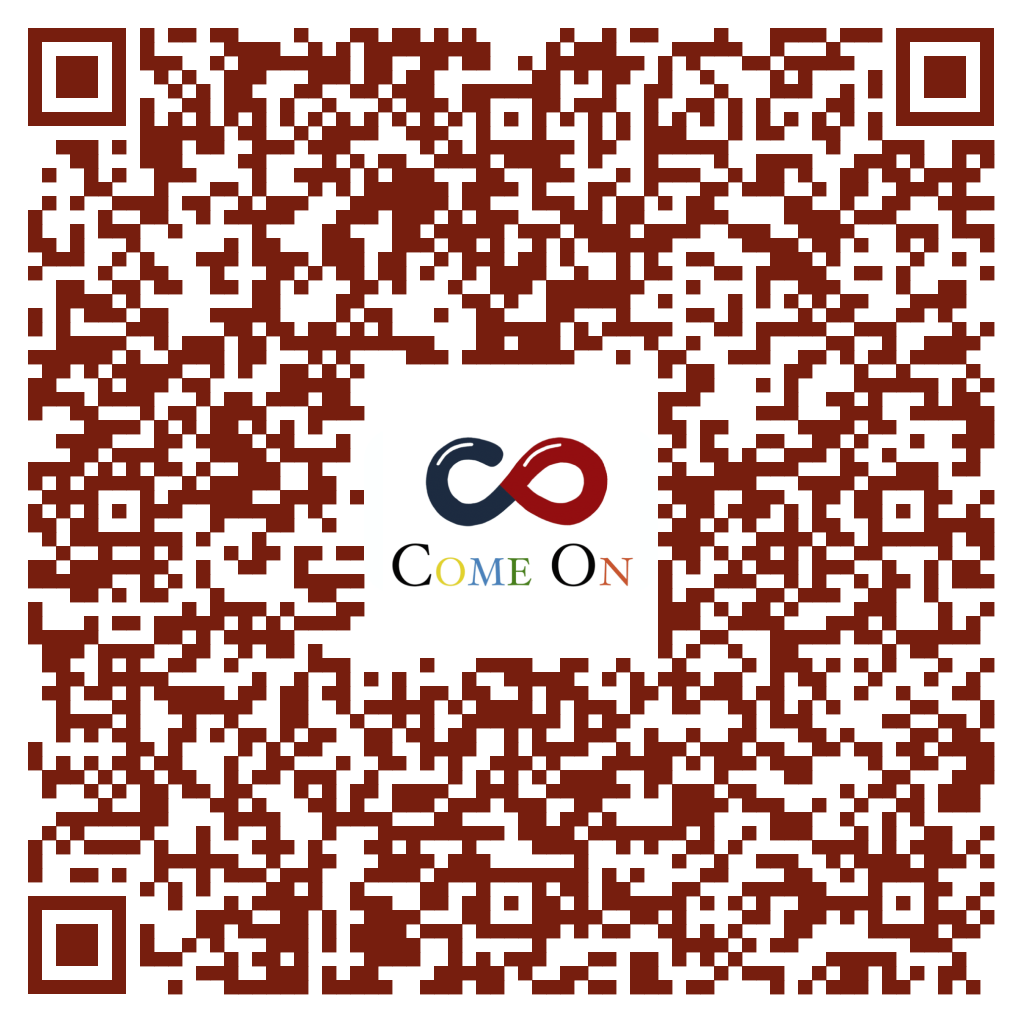
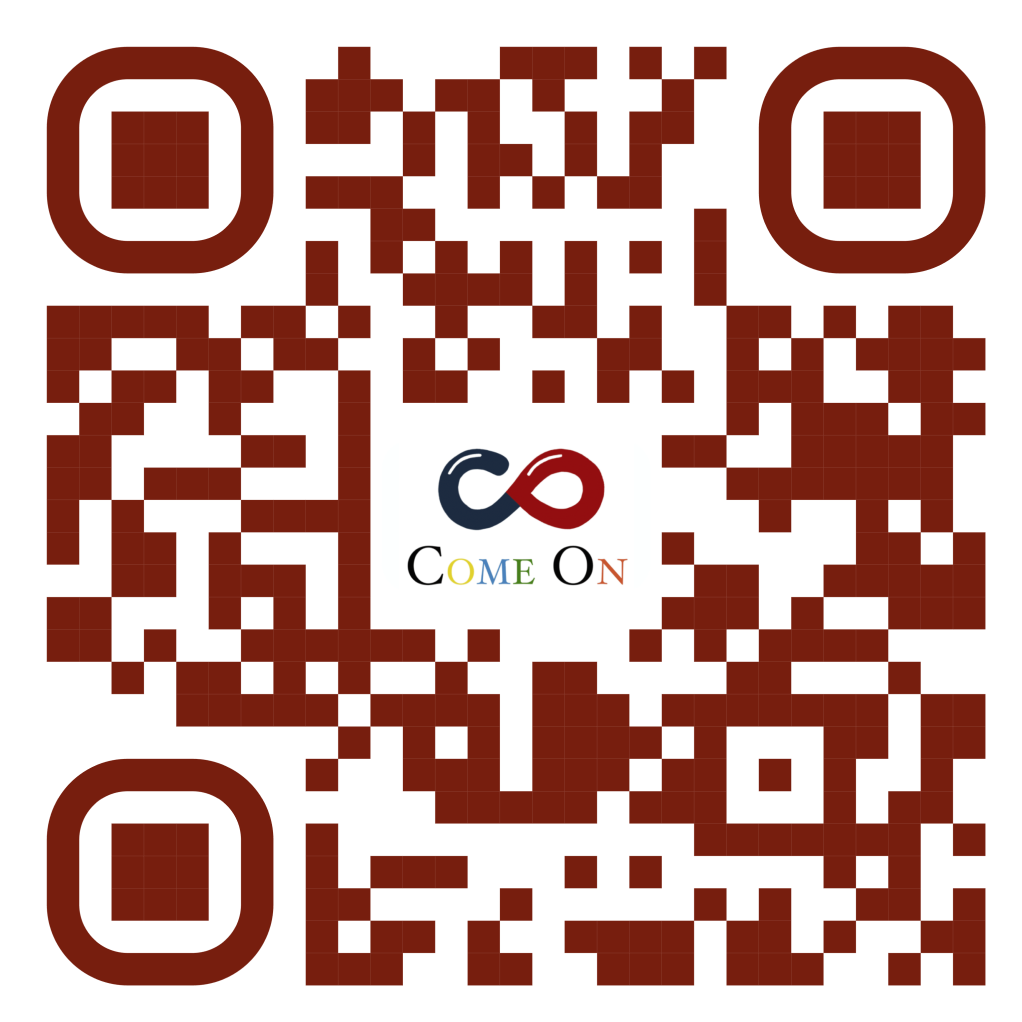
chage pdf redirect

diff --git a/components/Landing.vue b/components/Landing.vue
@@ -3,15 +3,11 @@
     <Carousel :wrap-around="true" :autoplay="3000">
       <Slide index="0">
         <div>
-          <h1
-            class="text-left text-[64px] mobile:text-[20px] text-primary-red mb-4"
-          >
+          <h1 class="text-left text-[64px] mobile:text-[20px] text-primary-red mb-4">
             COME ON INTERNATIONAL,CO.,LTD. <br />
             บริษัท คัมออน อินเตอร์เนชั่นแนล จำกัด
           </h1>
-          <div
-            class="flex gap-12 mobile:gap-10 justify-center mobile:items-center"
-          >
+          <div class="flex gap-12 mobile:gap-10 justify-center mobile:items-center">
             <div class="flex-1 flex flex-col gap-12">
               <h1 class="text-left text-[40px] mobile:text-[17px] text-black">
                 จำหน่ายสินค้างานรถยนต์ทุกชนิด <br />
@@ -57,9 +53,7 @@
             class="mobile:hidden"
           />
           <div class="flex flex-col item-center gap-4">
-            <h1
-              class="text-primary-red text-[96px] mobile:text-[40px] font-bold"
-            >
+            <h1 class="text-primary-red text-[96px] mobile:text-[40px] font-bold">
               CONTACT US
             </h1>
             <div
@@ -87,9 +81,7 @@
                   alt=""
                   class="w-[80px] mobile:w-[40px]"
                 />
-                <span class="text-[48px] mobile:text-[20px]"
-                  >sami.comeon@gmail.com</span
-                >
+                <span class="text-[48px] mobile:text-[20px]">sami.comeon@gmail.com</span>
               </div>
             </div>
           </div>
@@ -104,18 +96,16 @@
             class="mobile:hidden"
           />
           <div class="flex flex-col gap-8 mobile:gap-4">
-            <h1
-              class="text-primary-red text-[96px] mobile:text-[40px] font-bold"
-            >
+            <h1 class="text-primary-red text-[96px] mobile:text-[40px] font-bold">
               OUR CATALOGUE
             </h1>
             <div class="flex flex-col items-center gap-8 mobile:gap-4">
-              <button
+              <!-- <button
                 @click="downloadWithAxios()"
                 class="text-secondary bg-primary-red px-[2rem] text-[35px] mobile:text-[20px] rounded-md shadow-lg w-fit"
               >
                 Download
-              </button>
+              </button> -->
               <button
                 @click="openPDF"
                 class="text-secondary bg-primary-red px-[2rem] text-[35px] mobile:text-[20px] rounded-md shadow-lg w-fit"
@@ -136,45 +126,49 @@
 </template>
 
 <script setup>
-import 'vue3-carousel/dist/carousel.css';
-import { Carousel, Slide, Pagination, Navigation } from 'vue3-carousel';
-import Axios from 'axios';
+import "vue3-carousel/dist/carousel.css";
+import { Carousel, Slide, Pagination, Navigation } from "vue3-carousel";
+import Axios from "axios";
+import url from "@/constant/pdfLink";
 
-const emit = defineEmits(['downloadClick','downloadSuccess'])
-import pdf from '@/src/Come-On_International.pdf';
+const emit = defineEmits(["downloadClick", "downloadSuccess"]);
+// import pdf from '@/src/Come-On_International.pdf';
+// const pdf = 'https://drive.google.com/file/d/19RcC2PyQYI8WSX3A6KbKSW61rlKPNDEj/view?usp=sharing'
 // const pdf = 'https://firebasestorage.googleapis.com/v0/b/come-on-international.appspot.com/o/Come-On%20International.pdf?alt=media&token=2a4c4566-930b-41f9-953b-cb1f23a25ced'
+const pdf = url;
 const screenWidth = window.innerWidth;
-const disableCarouselAddon = computed(() => screenWidth < '640px');
+const disableCarouselAddon = computed(() => screenWidth < "640px");
 const URL = await downloadURL();
 
 const openPDF = () => {
-  const downloadTag = document.getElementById('open');
+  const downloadTag = document.getElementById("open");
   downloadTag.click();
 };
 
 const forceFileDownload = (response, title) => {
-  console.log(title);
   const url = window.URL.createObjectURL(new Blob([response.data]));
-  const link = document.createElement('a');
+  const link = document.createElement("a");
   link.href = url;
-  link.setAttribute('download', title);
+  link.setAttribute("download", title);
   document.body.appendChild(link);
   link.click();
 };
 const downloadWithAxios = () => {
-  emit('downloadClick')
+  emit("downloadClick");
   Axios({
-    method: 'GET',
+    method: "GET",
     url: URL,
-    responseType: 'arraybuffer',
+    responseType: "arraybuffer",
   })
     .then((response) => {
-      forceFileDownload(response, 'ComeOn-International.pdf');
-      if(response.status == 200){
-       emit('downloadSuccess')
+      forceFileDownload(response, "ComeOn-International.pdf");
+      if (response.status == 200) {
+        emit("downloadSuccess");
       }
     })
-    .catch(() => {emit('downloadSuccess')});
+    .catch(() => {
+      emit("downloadSuccess");
+    });
 };
 </script>
 

diff --git a/components/Popup/CataloguePopup.vue b/components/Popup/CataloguePopup.vue
@@ -20,7 +20,7 @@
         <span class="text-[40px]">CATALOGUE</span>
       </div>
       <div
-        class="mobile:flex-col mobile:gap-[1rem] absolute bottom-[60px] mobile:bottom-[20px] px-12 w-full h-fit flex flex-row justify-center gap-[3rem]"
+        class="mobile:flex-col mobile:gap-[1rem] absolute bottom-[60px] mobile:bottom-[20px] px-24 w-full h-fit flex flex-row justify-center gap-[3rem]"
       >
         <img
           src="~/assets/images/popup/qr.png"
@@ -31,7 +31,7 @@
           <span class="font-bold text-lg">or</span>
         </div>
         <button
-          @click="downloadWithAxios()"
+          @click="openPDF"
           class="bg-secondary h-fit w-min px-[2rem] text-[35px] font-normal flex-grow py-[0.5rem] rounded-md shadow-lg self-center justify-self-center mobile:text-[15px]"
         >
           Download
@@ -45,6 +45,7 @@
 <script setup>
 import BackDrop from './BackDrop.vue';
 import Axios from 'axios';
+import url from '@/constant/pdfLink'
 
 const emit = defineEmits(['downloadClick','downloadSuccess'])
 
@@ -53,7 +54,7 @@ const URL = await downloadURL();
 
 const downloadCatalogue = async () => {
   const aTag = document.createElement('a');
-  const url = URL;
+  // const url = URL;
   // const aTag = document.getElementById("downloadPDF");
   aTag.download = 'ComeOn-International.pdf';
   aTag.href = url;
@@ -84,6 +85,10 @@ const downloadWithAxios = () => {
       }
     })
     .catch(() => console.log('error occured'));
+};
+const openPDF = () => {
+  const downloadTag = document.getElementById('open');
+  downloadTag.click();
 };
 </script>
 

diff --git a/components/Popup/ContactPopup.vue b/components/Popup/ContactPopup.vue
@@ -49,7 +49,7 @@
             alt=""
             class="w-[80px] mobile:w-[40px]"
           />
-          <span class="text-[48px] mobile:text-[20px]">sami.comeon@gmail.com</span>
+          <span class="text-[48px] mobile:text-[18px]">sami.comeon@gmail.com</span>
         </div>
       </div>
     </div>

diff --git a/pages/index.vue b/pages/index.vue
@@ -51,7 +51,6 @@ const cataloguePopupActive = ref(false);
 const contactPopupActive = ref(false);
 const isLoading = ref(false);
 const enablePopup = (type) => {
-  console.log('>>>', type);
   freezeScrolling(true);
   if (type === 'CATALOGUE') {
     cataloguePopupActive.value = true;

diff --git a/pages/catalogue.vue b/pages/catalogue.vue
@@ -1,0 +1,15 @@
+<template>
+    <div>
+
+    </div>
+</template>
+
+<script setup>
+import url from '@/constant/pdfLink'
+onBeforeMount(() => {
+    window.location.href = url
+})
+</script>
+
+<style lang="scss" scoped>
+</style>

diff --git a/constant/pdfLink.ts b/constant/pdfLink.ts
@@ -1,0 +1,4 @@
+const url =
+  'https://drive.google.com/file/d/19RcC2PyQYI8WSX3A6KbKSW61rlKPNDEj/view?usp=sharing';
+
+export default url
